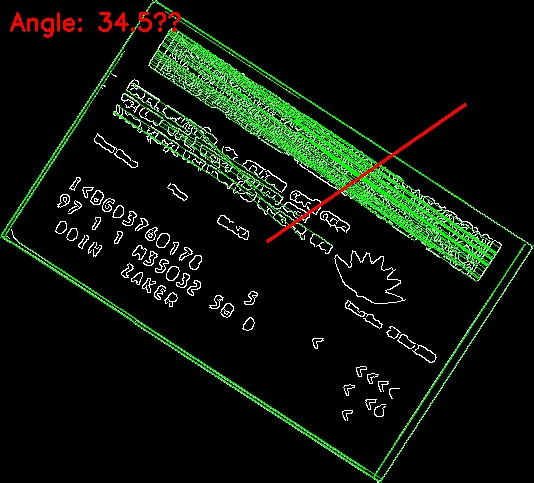
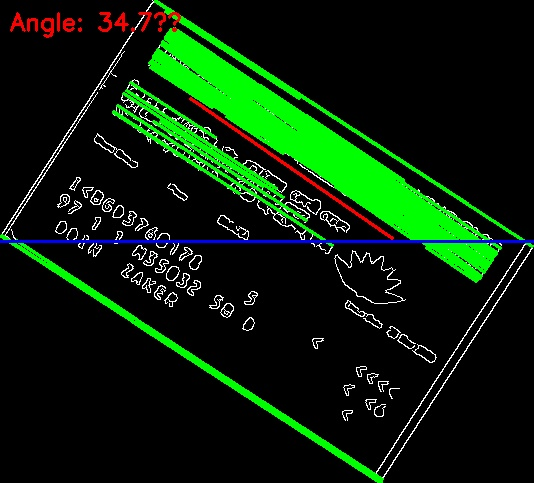
updated

diff --git a/hugh_line.py b/hugh_line.py
@@ -47,20 +47,42 @@ def detect_card_angle_fixed(image_path, output_dir="output_detected_angles"):
 
     print(f"{os.path.basename(image_path)} → Detected angle: {dominant_angle:.2f}°")
 
-    # Draw detected lines on image
+    # Draw only lines with the dominant orientation
     vis_img = cv2.cvtColor(edges, cv2.COLOR_GRAY2BGR)
+    angle_tolerance = 5  # degrees
+    majority_lines = []
     for line in lines:
         x1, y1, x2, y2 = line[0]
-        cv2.line(vis_img, (x1, y1), (x2, y2), (0, 255, 0), 1)
+        angle = get_line_angle(x1, y1, x2, y2)
+        norm_angle = angle if angle <= 90 else angle - 180  # normalize to [-90, 90]
+        if abs(norm_angle - dominant_angle) <= angle_tolerance:
+            cv2.line(vis_img, (x1, y1), (x2, y2), (0, 255, 0), 2)
+            majority_lines.append((x1, y1, x2, y2))
 
-    # Draw center and angle line
+    # Always define center_x, center_y for baseline and fallback
     center_x, center_y = width // 2, height // 2
-    length = min(width, height) // 2
-    rad = np.radians(dominant_angle)
-    end_x = int(center_x + length * np.cos(rad))
-    end_y = int(center_y - length * np.sin(rad))
-    cv2.line(vis_img, (center_x, center_y), (end_x, end_y), (0, 0, 255), 2)
-    cv2.putText(vis_img, f"Angle: {dominant_angle:.1f}°", (10, 30),
+    # Draw red line and calculate its angle with respect to the horizontal (blue) baseline
+    if majority_lines:
+        avg_x1 = int(np.mean([l[0] for l in majority_lines]))
+        avg_y1 = int(np.mean([l[1] for l in majority_lines]))
+        avg_x2 = int(np.mean([l[2] for l in majority_lines]))
+        avg_y2 = int(np.mean([l[3] for l in majority_lines]))
+        cv2.line(vis_img, (avg_x1, avg_y1), (avg_x2, avg_y2), (0, 0, 255), 2)
+        # Calculate angle between red and blue line
+        red_angle = get_line_angle(avg_x1, avg_y1, avg_x2, avg_y2)
+    else:
+        # fallback to center and angle if no majority lines
+        length = min(width, height) // 2
+        rad = np.radians(dominant_angle)
+        end_x = int(center_x + length * np.cos(rad))
+        end_y = int(center_y - length * np.sin(rad))
+        cv2.line(vis_img, (center_x, center_y), (end_x, end_y), (0, 0, 255), 2)
+        red_angle = get_line_angle(center_x, center_y, end_x, end_y)
+    # The blue line is always horizontal, so its angle is 0
+    angle_with_baseline = abs(red_angle)
+    # Draw baseline (horizontal line through center)
+    cv2.line(vis_img, (0, center_y), (width, center_y), (255, 0, 0), 2)
+    cv2.putText(vis_img, f"Angle: {angle_with_baseline:.1f}°", (10, 30),
                 cv2.FONT_HERSHEY_SIMPLEX, 0.8, (0, 0, 255), 2)
 
     # Save
@@ -69,7 +91,7 @@ def detect_card_angle_fixed(image_path, output_dir="output_detected_angles"):
     out_path = os.path.join(output_dir, f"{os.path.splitext(name)[0]}_angle.jpg")
     cv2.imwrite(out_path, vis_img)
 
-    return dominant_angle
+    return angle_with_baseline
 
 def process_folder_fixed(input_folder="images_new", output_folder="output_detected_angles"):
     image_extensions = (".png", ".jpg", ".jpeg", ".bmp", ".tiff", ".tif")
